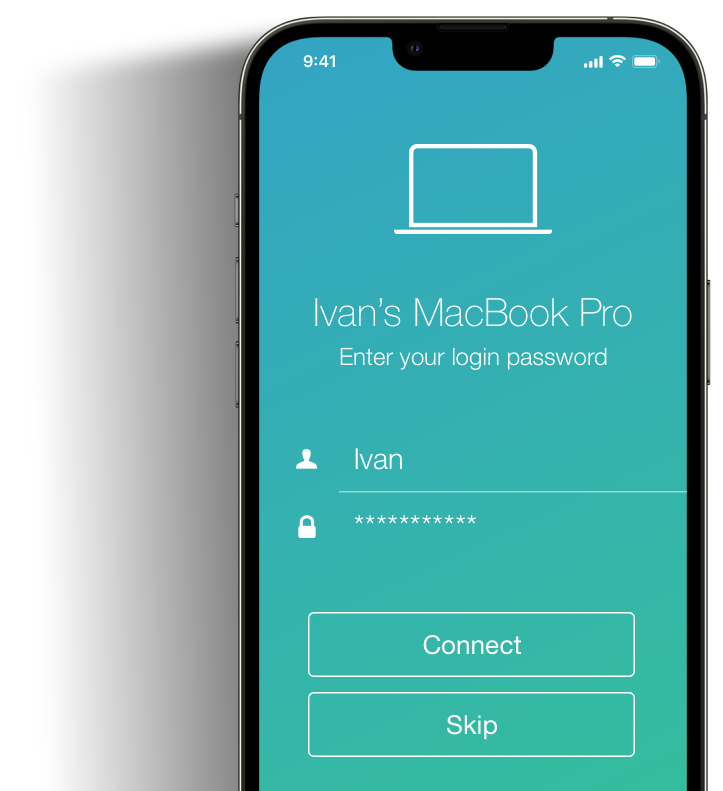
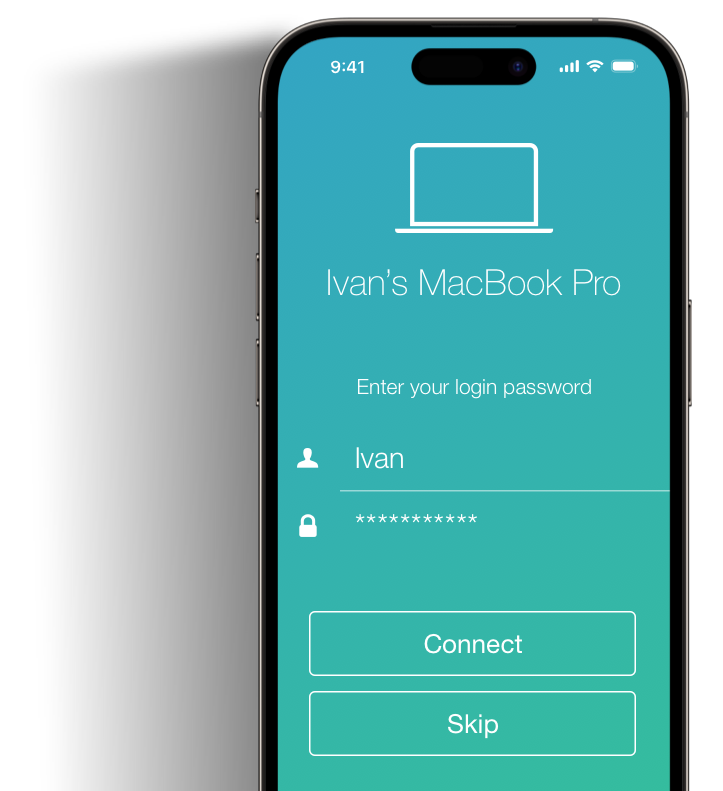
adding device variable, changed iphone svgs for iphone 14, changed second step image to include new iphone 14

diff --git a/components/nearlock-app/Content/Devices.jsx b/components/nearlock-app/Content/Devices.jsx
@@ -10,6 +10,7 @@ export default function Devices({
   owner,
   setIsSetupDone,
   setIsModalOpen,
+  device,
 }) {
   return (
     <Tab.Panel
@@ -47,7 +48,7 @@ export default function Devices({
                 </svg>
                 <small className="mt-3">{owner}’s MacBook Pro</small>
               </div>
-              <div className="before:-z[1] mb-5 flex grow flex-col items-center justify-center before:relative before:ml-[7px] before:h-1 before:w-[calc(100%+41px)] before:bg-[#368EFC] before:shadow-[0_0_10px_-1px_#368EFC] before:content-['']">
+              <div className="before:-z[1] mb-5 flex grow flex-col items-center justify-center before:relative before:ml-[15px] before:h-1 before:w-[calc(100%+47px)] before:bg-[#368EFC] before:shadow-[0_0_10px_-1px_#368EFC] before:content-['']">
                 <div className="absolute mt-[-90px] rounded-lg bg-green-600 px-5 py-1.5 text-sm text-white transition-all duration-500 before:absolute before:left-1/2 before:-bottom-2 before:h-0 before:w-0 before:-translate-x-1/2 before:border-x-8 before:border-t-8 before:border-b-0 before:border-solid before:border-x-transparent before:border-b-transparent before:border-t-green-600 before:content-['']">
                   3 meters
                 </div>
@@ -56,22 +57,28 @@ export default function Devices({
                 <svg
                   width="102px"
                   height="100px"
-                  viewBox="0 0 102 188"
+                  viewBox="0 0 102 187"
                   version="1.1"
                   xmlns="http://www.w3.org/2000/svg"
                   xmlnsXlink="http://www.w3.org/1999/xlink"
                 >
-                  <g transform="translate(-124.000000, -81.000000)" fillRule="nonzero">
-                    <g transform="translate(124.000000, 81.000000)">
+                  <g stroke="none" strokeWidth="1" fill="none" fillRule="evenodd">
+                    <g
+                      transform="translate(-1757.000000, -739.000000)"
+                      fill="#000000"
+                      fillRule="nonzero"
+                    >
                       <path
-                        d="M79.5,0 C91.9264069,0 102,10.0735931 102,22.5 L102,165.5 C102,177.926407 91.9264069,188 79.5,188 L22.5,188 C10.0735931,188 0,177.926407 0,165.5 L0,22.5 C0,10.0735931 10.0735931,0 22.5,0 L79.5,0 Z M28.5,8.25 L22.5,8.25 C14.6299423,8.25 8.25,14.6299423 8.25,22.5 L8.25,165.5 C8.25,173.370058 14.6299423,179.75 22.5,179.75 L79.5,179.75 C87.3700577,179.75 93.75,173.370058 93.75,165.5 L93.75,22.5 C93.75,14.6299423 87.3700577,8.25 79.5,8.25 L73.5,8.25 C72.7203039,8.25 72.0795513,8.84488808 72.0068666,9.60553999 L72,9.75 L72,11 C72,13.209139 70.209139,15 68,15 L34,15 C31.790861,15 30,13.209139 30,11 L30,9.75 C30,8.92157288 29.3284271,8.25 28.5,8.25 Z"
+                        d="M1839,739 C1850.04569,739 1859,747.954305 1859,759 L1859,906 C1859,917.045695 1850.04569,926 1839,926 L1777,926 C1765.95431,926 1757,917.045695 1757,906 L1757,759 C1757,747.954305 1765.95431,739 1777,739 L1839,739 Z M1839,746 L1777,746 C1769.8203,746 1764,751.820298 1764,759 L1764,906 C1764,913.179702 1769.8203,919 1777,919 L1839,919 C1846.1797,919 1852,913.179702 1852,906 L1852,759 C1852,751.820298 1846.1797,746 1839,746 Z M1827,909 C1828.10457,909 1829,909.895431 1829,911 C1829,912.104569 1828.10457,913 1827,913 L1789,913 C1787.89543,913 1787,912.104569 1787,911 C1787,909.895431 1787.89543,909 1789,909 L1827,909 Z M1818.5,752 C1821.53757,752 1824,754.462434 1824,757.5 C1824,760.537566 1821.53757,763 1818.5,763 L1797.5,763 C1794.46243,763 1792,760.537566 1792,757.5 C1792,754.462434 1794.46243,752 1797.5,752 L1818.5,752 Z"
                         className="[transition:fill_0.5s]"
                         fill={isDarkMode ? '#ffffff' : '#4C4C4C'}
                       />
                     </g>
                   </g>
                 </svg>
-                <small className="mt-3">{owner}’s iPhone X</small>
+                <small className="mt-3">
+                  {owner}’s {device}
+                </small>
               </div>
             </div>
             <h5
@@ -80,7 +87,7 @@ export default function Devices({
                 'text-black': isDarkMode,
               })}
             >
-              {owner}’s iPhone X and this Mac are connected
+              {owner}’s iPhone 14 Pro and this Mac are connected
             </h5>
             <div className="flex justify-center">
               <AppButton onClick={() => setIsSetupDone(false)} className="nearlock btn-blue mt-4">

diff --git a/components/nearlock-app/Modal/FirstStep.jsx b/components/nearlock-app/Modal/FirstStep.jsx
@@ -1,26 +1,28 @@
-const FirstStep = ({ owner }) => {
+const FirstStep = ({ owner, device }) => {
   return (
     <div className="flex grow flex-col justify-center p-5 text-center">
       <svg
         className="my-5 mx-auto"
         width="102px"
         height="100px"
-        viewBox="0 0 102 188"
+        viewBox="0 0 102 187"
         version="1.1"
         xmlns="http://www.w3.org/2000/svg"
         xmlnsXlink="http://www.w3.org/1999/xlink"
       >
-        <g transform="translate(-124.000000, -81.000000)" fillRule="nonzero">
-          <g transform="translate(124.000000, 81.000000)">
+        <g stroke="none" strokeWidth="1" fill="none" fillRule="evenodd">
+          <g transform="translate(-1757.000000, -739.000000)" fill="#000000" fillRule="nonzero">
             <path
-              d="M79.5,0 C91.9264069,0 102,10.0735931 102,22.5 L102,165.5 C102,177.926407 91.9264069,188 79.5,188 L22.5,188 C10.0735931,188 0,177.926407 0,165.5 L0,22.5 C0,10.0735931 10.0735931,0 22.5,0 L79.5,0 Z M28.5,8.25 L22.5,8.25 C14.6299423,8.25 8.25,14.6299423 8.25,22.5 L8.25,165.5 C8.25,173.370058 14.6299423,179.75 22.5,179.75 L79.5,179.75 C87.3700577,179.75 93.75,173.370058 93.75,165.5 L93.75,22.5 C93.75,14.6299423 87.3700577,8.25 79.5,8.25 L73.5,8.25 C72.7203039,8.25 72.0795513,8.84488808 72.0068666,9.60553999 L72,9.75 L72,11 C72,13.209139 70.209139,15 68,15 L34,15 C31.790861,15 30,13.209139 30,11 L30,9.75 C30,8.92157288 29.3284271,8.25 28.5,8.25 Z"
+              d="M1839,739 C1850.04569,739 1859,747.954305 1859,759 L1859,906 C1859,917.045695 1850.04569,926 1839,926 L1777,926 C1765.95431,926 1757,917.045695 1757,906 L1757,759 C1757,747.954305 1765.95431,739 1777,739 L1839,739 Z M1839,746 L1777,746 C1769.8203,746 1764,751.820298 1764,759 L1764,906 C1764,913.179702 1769.8203,919 1777,919 L1839,919 C1846.1797,919 1852,913.179702 1852,906 L1852,759 C1852,751.820298 1846.1797,746 1839,746 Z M1827,909 C1828.10457,909 1829,909.895431 1829,911 C1829,912.104569 1828.10457,913 1827,913 L1789,913 C1787.89543,913 1787,912.104569 1787,911 C1787,909.895431 1787.89543,909 1789,909 L1827,909 Z M1818.5,752 C1821.53757,752 1824,754.462434 1824,757.5 C1824,760.537566 1821.53757,763 1818.5,763 L1797.5,763 C1794.46243,763 1792,760.537566 1792,757.5 C1792,754.462434 1794.46243,752 1797.5,752 L1818.5,752 Z"
+              className="[transition:fill_0.5s]"
               fill="#368EFC"
             />
           </g>
         </g>
       </svg>
       <h5>
-        {owner}’s iPhone X<br />
+        {owner}’s {device}
+        <br />
         wants to connect
       </h5>
     </div>

diff --git a/components/nearlock-app/Modal/ModalWindow.jsx b/components/nearlock-app/Modal/ModalWindow.jsx
@@ -12,6 +12,7 @@ const Modal = ({
   setActiveTab,
   setIsSetupDone,
   owner,
+  device,
 }) => {
   const [currentStep, setStep] = useState(1);
 
@@ -36,7 +37,7 @@ const Modal = ({
   const renderStep = (step) => {
     switch (step) {
       case 1:
-        return <FirstStep owner={owner} />;
+        return <FirstStep owner={owner} device={device} />;
       case 2:
         return <SecondStep goBack={goBack} isDarkMode={isDarkMode} />;
       case 3:

diff --git a/components/nearlock-app/ContentView.jsx b/components/nearlock-app/ContentView.jsx
@@ -25,6 +25,7 @@ const Content = ({
   setIsSetupDone,
   menuItems,
   owner,
+  device,
 }) => {
   return (
     <div
@@ -66,6 +67,7 @@ const Content = ({
           owner={owner}
           setIsSetupDone={setIsSetupDone}
           setIsModalOpen={setIsModalOpen}
+          device={device}
         />
         {/* Music - ID: 4 */}
         <Tab.Panel />

diff --git a/components/nearlock-app/NearLockApp.jsx b/components/nearlock-app/NearLockApp.jsx
@@ -37,6 +37,7 @@ function NearLockApp({ isDarkMode }) {
   };
 
   const owner = 'Ivan';
+  const device = 'iPhone 14 Pro';
 
   const menuItems = [
     {
@@ -125,6 +126,7 @@ function NearLockApp({ isDarkMode }) {
     setIsModalOpen,
     menuItems,
     owner,
+    device,
   };
 
   return (
